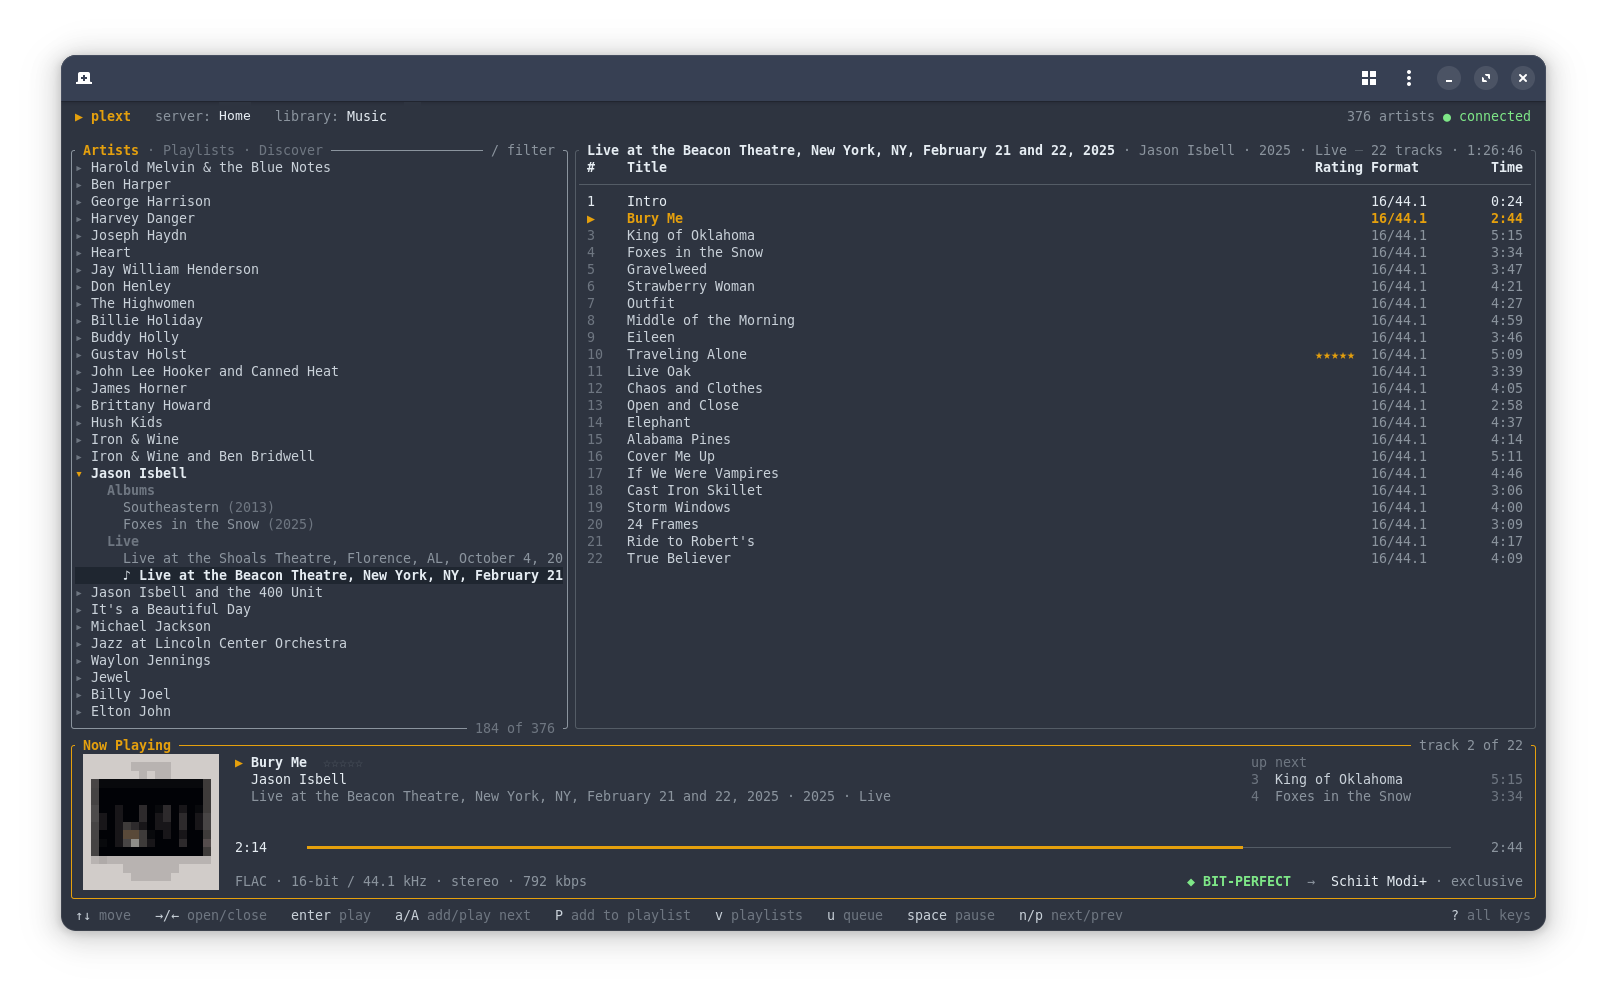
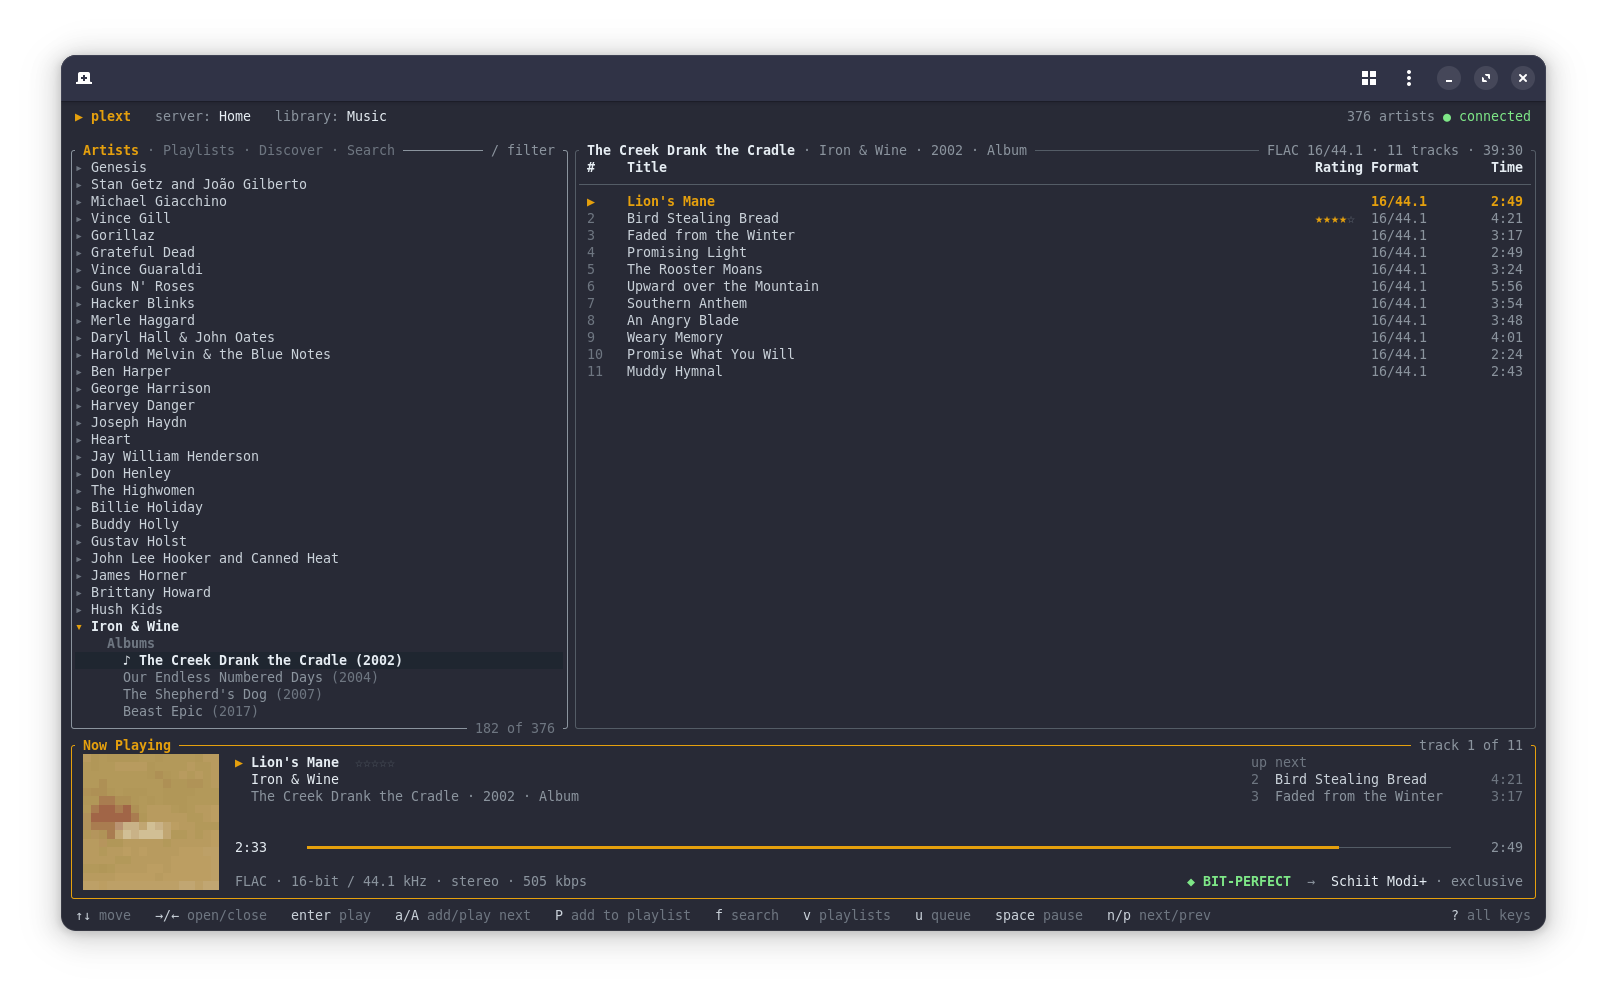
Prepare 1.0.0
- Version 1.0.0.
- CHANGELOG: the 1.0.0 entry, covering search, volume, themes, the Pi
  builds and the fixes from the 1.0 review, with upgrade notes.
- README: downloads for each computer (x86_64, aarch64, armv6), a
  Raspberry Pi section (picking a build, tmux over SSH, bit-perfect
  needing a USB or I2S DAC), and the behaviour the review fixes changed
  (skipped tracks, device details, queue saved when the terminal closes).
- New screenshot.

Claude-Session: https://claude.ai/code/session_01LZGe5jAxqwiWgVh3Dooz5p

diff --git a/README.md b/README.md
@@ -2,9 +2,10 @@
 
 A terminal music player for Plex with bit-perfect playback straight to your DAC.
 Browse your artists, albums and playlists, build a queue, start stations and mixes, and stream
-lossless and high-res audio untouched, all from a single static binary for Linux.
+lossless and high-res audio untouched, all from a single static binary for Linux, on a PC or a
+Raspberry Pi.
 
-![Plext playing a live album, 16-bit/44.1 kHz FLAC, bit-perfect through a USB DAC, with the album cover as pixel art beside the track and the next two tracks up next](docs/screenshot.png)
+![Plext playing Iron & Wine's The Creek Drank the Cradle, 16-bit/44.1 kHz FLAC, bit-perfect through a Schiit Modi+ USB DAC, with the artist list on the left, the album's tracks and ratings on the right, the album cover as pixel art beside the track and the next two tracks up next](docs/screenshot.png)
 
 ## Features
 
@@ -44,7 +45,7 @@ lossless and high-res audio untouched, all from a single static binary for Linux
 
 ## Requirements
 
-- Linux on x86_64 (any distribution; the binary has no dependencies)
+- Linux on x86_64, or a Raspberry Pi (any distribution; the binary has no dependencies)
 - A Plex Media Server with a music library, and a Plex account
 - For bit-perfect playback, a USB DAC or other sound card that Plext can access directly.
   For desktop sound, PipeWire (with pipewire-pulse, the default on current distributions) or
@@ -54,7 +55,15 @@ lossless and high-res audio untouched, all from a single static binary for Linux
 
 ## Install
 
-Download `plext-x86_64-linux.tar.gz` from the [Releases](../../releases) page, then:
+Download the file for your computer from the [Releases](../../releases) page:
+
+| Computer | `uname -m` says | Download |
+|---|---|---|
+| A PC (Intel or AMD) | `x86_64` | `plext-x86_64-linux.tar.gz` |
+| Raspberry Pi 3, 4, 5 or Zero 2 W on a 64-bit OS | `aarch64` | `plext-aarch64-linux.tar.gz` |
+| Any Raspberry Pi on a 32-bit OS, including the Pi 1, Zero and Zero W | `armv6l` or `armv7l` | `plext-armv6-linux.tar.gz` |
+
+Then, with your file's name:
 
 ```sh
 tar xzf plext-x86_64-linux.tar.gz
@@ -63,6 +72,29 @@ sudo install plext /usr/local/bin/
 
 To upgrade, download the new release and run the same two commands; your settings are kept.
 [CHANGELOG.md](CHANGELOG.md) lists what's new in each release.
+
+## Raspberry Pi
+
+A Pi with a USB DAC makes a good dedicated player: Plext runs on the Pi and the music plays
+through its DAC, and you control it from any computer over SSH.
+
+- **Run it inside tmux or screen**, so it keeps playing when you disconnect. Over SSH on the
+  Pi, `tmux new -A -s plext plext` starts Plext, or reattaches to it if it's already running.
+  If the connection drops without tmux, Plext saves the queue and quits, and picks up where you
+  left off next time.
+- **Bit-perfect needs a USB DAC or an I2S DAC HAT.** The Pi's HDMI audio doesn't take plain PCM
+  samples, so it can't play bit-perfect, and the Pi 4's headphone jack is 16-bit only (the Pi 5
+  has none). `plext device` shows what each output can play and marks the ones that can't.
+- **Desktop sound** works on Raspberry Pi OS with a desktop (it uses PipeWire).
+- Media keys and desktop media controls aren't available over SSH; Plext carries on without
+  them.
+- Tracks stream to `~/.cache/plext/stream` while they play (a 24/192 track is around 300 MB) and
+  take no space once Plext is done with them. On a Pi 1 or the original Zero, high-res files may
+  be too much for the single slow core.
+
+The Pi builds are tested in emulation of each build's oldest supported chip (Cortex-A53 for
+64-bit, ARM1176 for 32-bit). If you run Plext on a Pi, an
+[issue](https://github.com/Noah0504/plext/issues) saying how it went is welcome.
 
 ## Getting started
 
@@ -90,12 +122,13 @@ Then it asks which device or output to use. Change either later:
 plext output                       # ask again
 plext output system                # switch to desktop sound
 plext output bitperfect            # switch to bit-perfect
-plext device                       # list the devices for the current mode
+plext device                       # list the devices for the current mode, and what each can play
 plext device hw:CARD=DAC,DEV=0     # bit-perfect: choose your DAC
 plext device default               # desktop sound: follow the desktop's default output
 ```
 
-In bit-perfect mode, if no device is set, Plext picks the first USB audio device it finds. In
+In bit-perfect mode, if no device is set, Plext picks the first USB audio device it finds that
+can play bit-perfect. In
 desktop-sound mode it follows your desktop's default output unless you pick one, so it moves to
 your headphones when the desktop does. You can also move Plext to another output from your
 sound settings while it plays.
@@ -178,9 +211,10 @@ puts the original order back. With shuffle on, playing an album starts with the 
 and shuffles the rest. **Repeat** (`r`) cycles through off, the whole queue, and the current
 track. Both show at the top right of the now-playing bar, and in your desktop's media controls.
 
-When you quit, the queue is saved to `~/.local/state/plext/queue.json`. Next time Plext starts
-with it paused at the same track and position; press `Space` to carry on. (A queue saved from a
-different Plex server is ignored.)
+When you quit, or close the terminal, the queue is saved to `~/.local/state/plext/queue.json`.
+Next time Plext starts with it paused at the same track and position; press `Space` to carry on.
+(A queue saved from a different Plex server is ignored.) While a station or mix plays, the queue
+keeps the last 200 tracks played.
 
 ## Playlists
 
@@ -441,7 +475,8 @@ server in its own sample rate and bit depth, and the server takes it from there.
 - **Volume** stays at full digital scale; use your DAC's or amplifier's volume control.
 - **Narrower DAC containers.** 16-bit sources sent to a 32-bit-only DAC are padded with zero bits,
   which preserves every original bit. If a DAC can't accept a source's bit depth or sample rate
-  natively, Plext tells you rather than converting silently.
+  natively, Plext tells you and skips to the next track rather than converting silently.
+  `plext device` shows each device's widest sample size and highest sample rate.
 - **Lossy files** (MP3, AAC, Vorbis) play normally but are never shown as bit-perfect.
 - **DSD** isn't supported yet.
 
@@ -464,6 +499,8 @@ their output: it shows names from your library, but never your sign-in token.
   connections Plext recovered from.
 - **Can't reach the server.** Plext tries the server's other addresses automatically. If your
   server moved or your sign-in expired, run `plext login` again.
+- **"Can't play bit-perfect" next to a device.** That output doesn't take plain PCM samples, as
+  with the HDMI audio on a Raspberry Pi. Use a USB or I2S DAC, or `plext output system`.
 - **Media keys don't do anything.** Check that Plext is registered with `playerctl -l` (it lists
   `plext`). If another player also runs, your desktop may send the keys to that one instead.
 - **A mix won't start.** Track radio, artist mixes and sonic adventures need Plex Pass and sonic

diff --git a/CHANGELOG.md b/CHANGELOG.md
@@ -1,9 +1,17 @@
 # Changelog
 
-## Unreleased
+## 1.0.0
+
+Plext 1.0: search, volume control in desktop-sound mode, color themes, Raspberry Pi builds, and a
+round of fixes that make it safer, lighter and more robust. From here on, settings and commands
+stay compatible between versions.
 
 ### New
 
+- **Raspberry Pi builds.** Releases now include `plext-aarch64-linux.tar.gz` for the Pi 3, 4, 5
+  and Zero 2 W on a 64-bit OS, and `plext-armv6-linux.tar.gz` for every Pi on a 32-bit OS, down
+  to the Pi 1 and Zero. The README's new Raspberry Pi section covers which to pick, running Plext
+  over SSH in tmux, and why bit-perfect on a Pi needs a USB or I2S DAC.
 - **Search.** Press `f` anywhere and type to search your library for artists, albums and tracks
   (Plex's own search, so tracks turn up by their artist or album too). Results come as you pause.
   Play an album, or a track's album from that track, with `Enter`; queue with `a` / `A`; add to a
@@ -22,12 +30,65 @@
   `theme_background = false`, and a `[colors]` table changes single colors.
 - `plext inspect search <words>` shows what your server's search returns, for troubleshooting.
   `plext inspect` now also takes an artist name without quotes (`plext inspect Cat Power`).
+- **`plext device` shows what each device can play**: its widest sample size and highest sample
+  rate, "in use by another program", or that it can't play bit-perfect at all (the HDMI audio
+  on a Raspberry Pi takes no plain PCM). Setup's device list shows the same, and when no device
+  is set, Plext's automatic choice skips the ones that can't play bit-perfect.
 
 ### Changed
 
+- **Lighter and snappier.** Plext used to redraw the whole screen ten times a second, idle or
+  not. It now draws only when something on screen changes, and only builds the rows of long
+  lists that can be on screen. Idle, it uses almost no CPU; with thousands of artists, each
+  redraw takes about half the time.
+- **Tracks start faster.** Downloads share one connection to your server instead of opening a
+  new one (and an encrypted handshake) for every track.
+- **A track your DAC can't play is skipped** (say, 96 kHz on a DAC that tops out at 48 kHz), with
+  a message naming it, instead of stopping the whole queue.
+- **Streaming files moved out of `/tmp`.** Tracks stream into `~/.cache/plext/stream`, private to
+  you, and each file is deleted as soon as it's open, so it takes no space once Plext is done
+  with it, even after a crash. On many systems `/tmp` is in memory, where a high-res track and
+  the next one could fill it on a small machine.
+- **Stations and mixes** keep the last 200 tracks played in the queue rather than growing it for
+  as long as they run.
 - The `plext inspect` commands now all start the same way: they say they only read from your
   server, and where to report a problem (the output of `plext inspect mixes` used to ask you to
   paste it into a chat, a leftover from testing).
+
+### Fixed
+
+- **Closing the terminal while Plext was running left it running in the background at full CPU,
+  forever, without saving the queue.** It now saves the queue and quits. This includes an SSH
+  connection dropping. `kill` also quits cleanly now, saving the queue and restoring the
+  terminal.
+- Saving settings could leave `config.toml` readable by other users for a moment, and a crash
+  part way through could lose your sign-in. It's now written privately and swapped in whole.
+
+### Security
+
+- **Your Plex sign-in token goes only to your server.** Plext used to check that the saved
+  server address still worked by sending it the token. If that address was a plain `http://`
+  one on your home network and your computer was on another network, whatever answered there
+  got the token. Plext now asks the server who it is first (which needs no token) and only
+  carries on if it's yours. Encrypted addresses are always tried before plain http.
+- Plext refuses redirects from the server, which could otherwise carry the token to another
+  site, and refuses server-supplied paths that would point to another host.
+- Album covers larger than any real cover (over 4096×4096 pixels or 64 MB) are refused before
+  they're decoded.
+- Names and text from the server printed by `plext status`, `plext login` and `plext inspect`
+  can no longer carry terminal escape sequences (the player screen already filtered them).
+
+### Upgrading from 0.6
+
+Download the new release and install it the same way; your settings and saved queue are kept.
+Nothing to change: settings and commands are the same as in 0.6. Stream files from earlier
+versions may be left in `/tmp` as `plext-*` files; they're safe to delete (a reboot usually clears
+them anyway).
+
+### Known limitations
+
+- DSD isn't supported yet.
+- The Raspberry Pi builds are tested in emulation; reports from real Pis are welcome.
 
 ## 0.6.0
 
